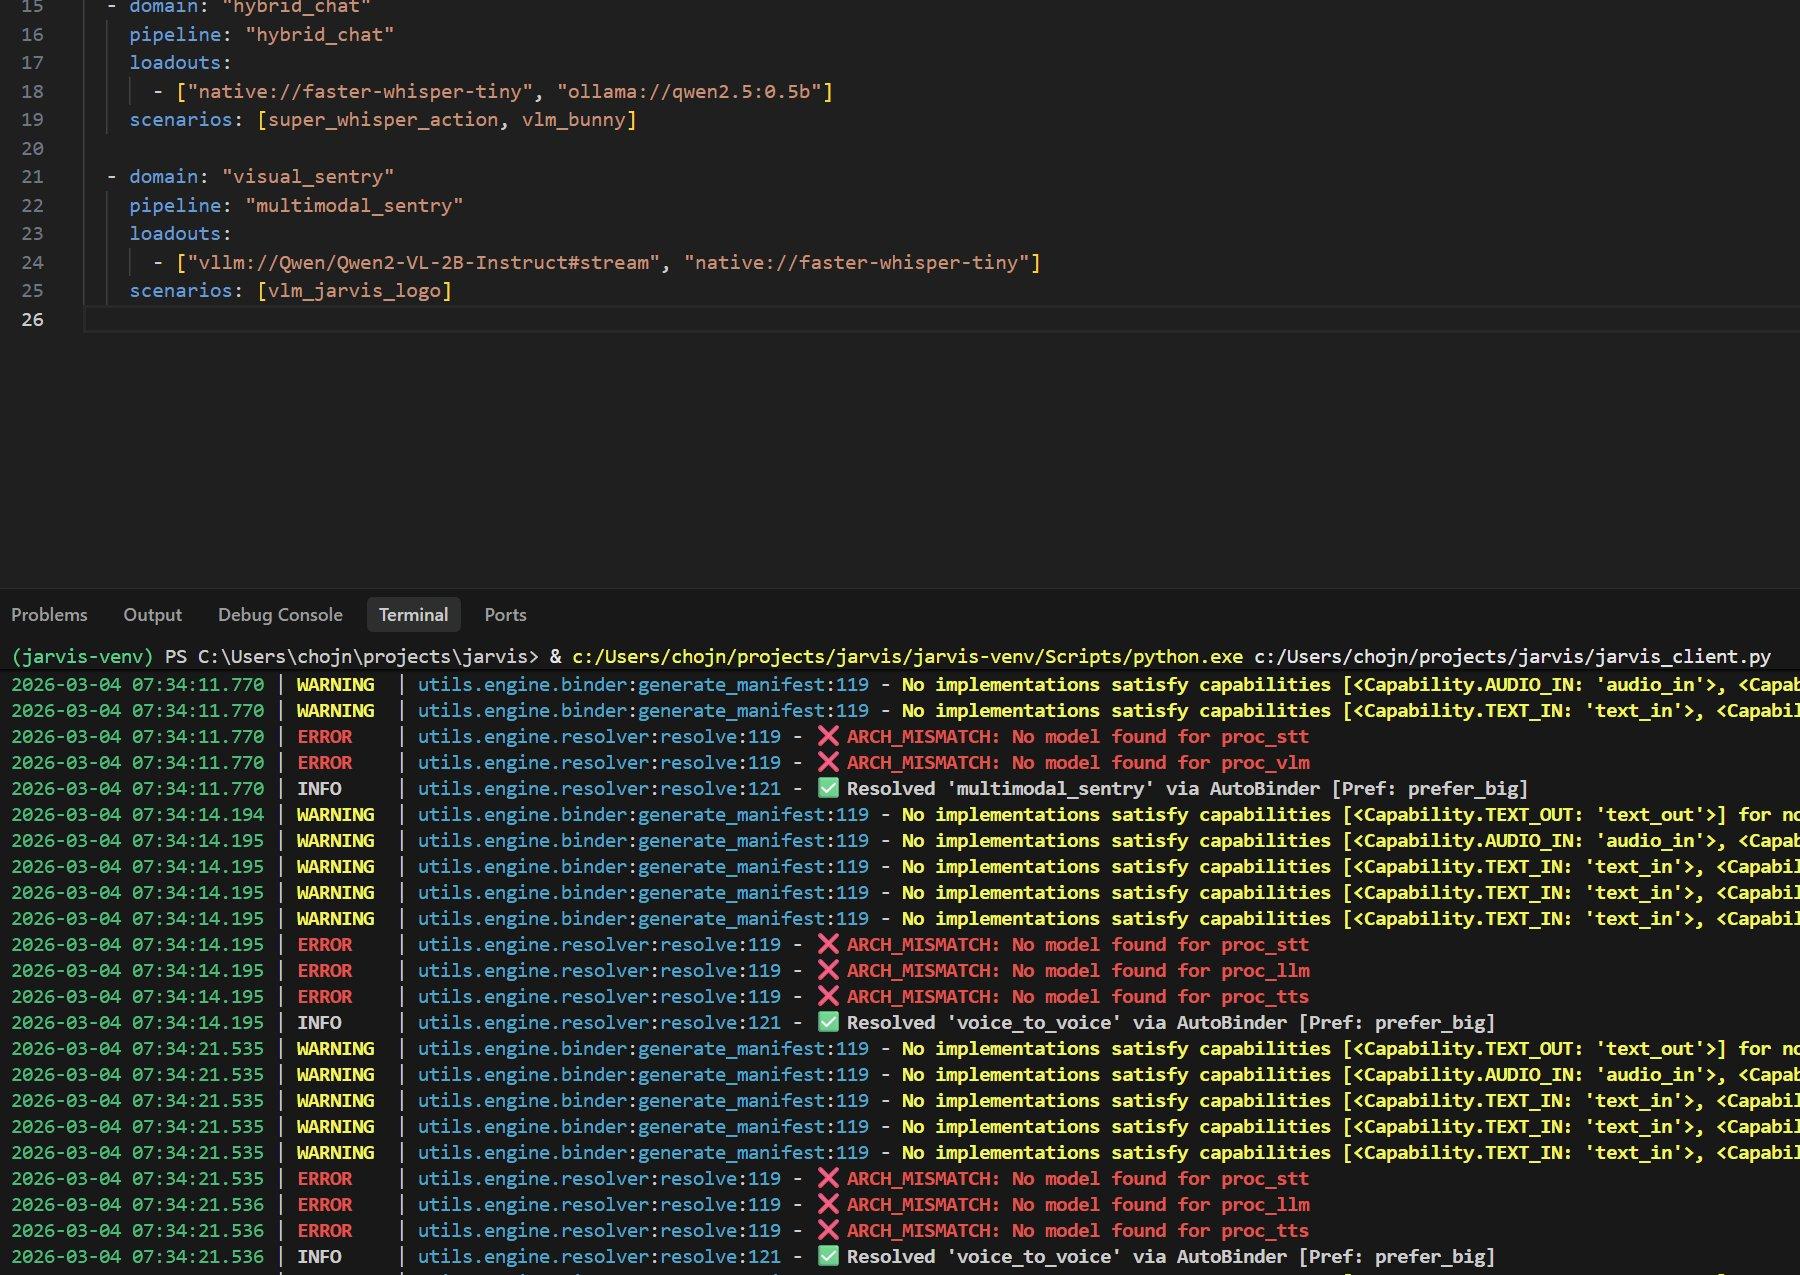
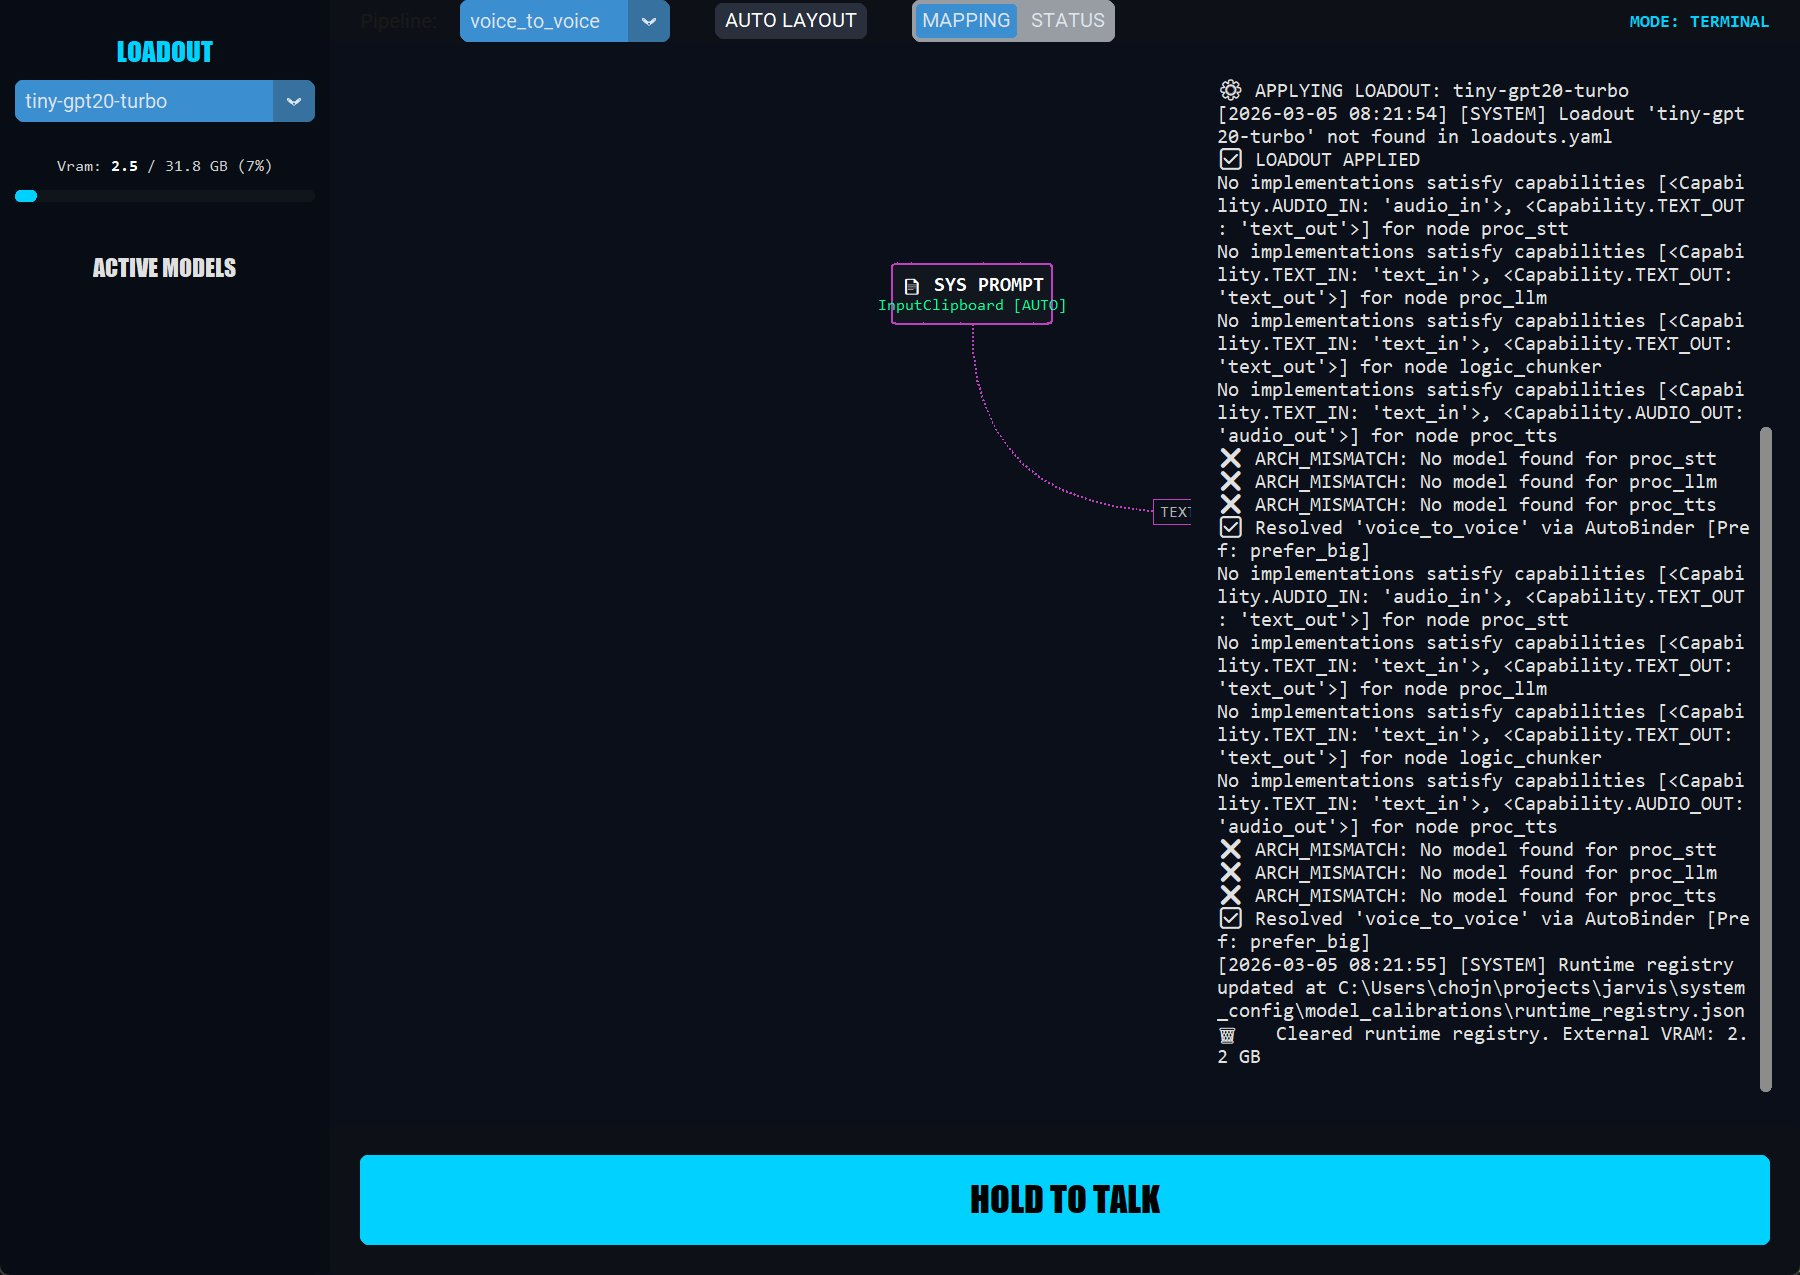
feat: simplify UI graph view with color-coded status and wider nodes
- Removed MAPPING and STATUS modes; unified into a single reactive view.
- Implemented color-coding for node titles: Green (Ready/Busy), Yellow (Startup), Red (Error), Grey (Unbound).
- Increased node width by 30% (160px -> 210px) via config.yaml.
- Simplified ui/app.py and ui/graph_widget.py by removing view_mode logic.
- Updated client testing scenarios to match the simplified UI structure.
- Refined CTkOptionMenu text extraction and health synchronization in the test runner.

diff --git a/ui/graph_widget.py b/ui/graph_widget.py
@@ -17,7 +17,6 @@ class PipelineGraphWidget(ctk.CTkFrame):
         self.dragging_node_id = None
         self.drag_offset = (0, 0)
         self.has_dragged = False
-        self.view_mode = "MAPPING"
         self.health_data = {} # port -> {status, info}
         
         self.canvas.bind("<Configure>", self.on_resize)
@@ -32,10 +31,9 @@ class PipelineGraphWidget(ctk.CTkFrame):
     def on_resize(self, event):
         self.draw_graph()
 
-    def set_graph_data(self, bound_graph, manual_positions=None, view_mode=None, health_data=None):
+    def set_graph_data(self, bound_graph, manual_positions=None, health_data=None):
         self.bound_graph = bound_graph
         if manual_positions is not None: self.manual_positions = manual_positions
-        if view_mode: self.view_mode = view_mode
         if health_data is not None: self.health_data = health_data
         self.draw_graph()
 
@@ -121,7 +119,7 @@ class PipelineGraphWidget(ctk.CTkFrame):
         return self.canvas.create_polygon(points, fill=color, outline=outline_color, width=outline_width, smooth=True)
 
     def draw_edge(self, x1, y1, x2, y2, color=None, style=None):
-        if color is None: color = self.ui_cfg['graph']['edge']['color']
+        if color is None: color = self.ui_cfg['colors']['gray']
         width = self.ui_cfg['graph']['edge']['width']
         ashape = tuple(self.ui_cfg['graph']['edge']['arrow_shape'])
         
@@ -132,7 +130,7 @@ class PipelineGraphWidget(ctk.CTkFrame):
 
     def draw_label(self, x1, y1, x2, y2, label, color=None):
         if not label: return
-        if color is None: color = self.ui_cfg['graph']['edge']['color']
+        if color is None: color = self.ui_cfg['colors']['gray']
         
         # Midpoint of the vertical flow, following the 30% elbow weight
         mid_x = (x1 + x2) / 2
@@ -238,28 +236,46 @@ class PipelineGraphWidget(ctk.CTkFrame):
             role = node.get('role', ntype)
             binding = node.get('binding')
             
-            # Color Coding Strategy
-            if ntype == 'source':
-                is_sys_prompt = any(n.get('system_prompt') == nid for n in self.bound_graph.values())
-                outline_color = self.ui_cfg['colors']['purple'] if is_sys_prompt else self.ui_cfg['colors']['accent']
-            elif ntype == 'sink':
-                outline_color = self.ui_cfg['colors']['warning']
-            elif ntype == 'processing':
-                if role == 'utility':
-                    outline_color = self.ui_cfg['colors']['gray']
-                elif not binding:
-                    outline_color = self.ui_cfg['colors']['error']
+            # COLOR CODING Logic
+            title_color = self.ui_cfg['colors']['gray'] # Default: not mapped (Grey)
+            subtext = "Unbound"
+            subtext_color = self.ui_cfg['colors']['gray']
+
+            if binding:
+                # If bound, we check health if it has a port
+                port = getattr(binding, 'config', {}).get('binding', {}).get('port') if not isinstance(binding, dict) else binding.get('config', {}).get('binding', {}).get('port')
+                if port:
+                    health = self.health_data.get(port, {"status": "OFF"})
+                    s = health['status']
+                    if s in ["ON", "BUSY"]:
+                        title_color = self.ui_cfg['colors']['success'] # Ready (Green)
+                        subtext_color = self.ui_cfg['colors']['success']
+                    elif s == "STARTUP":
+                        title_color = self.ui_cfg['colors']['warning'] # Loading (Yellow)
+                        subtext_color = self.ui_cfg['colors']['warning']
+                    else:
+                        title_color = self.ui_cfg['colors']['error'] # Error (Red)
+                        subtext_color = self.ui_cfg['colors']['error']
                 else:
-                    outline_color = self.ui_cfg['colors']['success']
-            else:
-                outline_color = self.ui_cfg['colors']['gray']
+                    # Local logic (no port) - assume Green if bound
+                    title_color = self.ui_cfg['colors']['success']
+                    subtext_color = self.ui_cfg['colors']['success']
+                
+                # Determine subtext (ID)
+                subtext = getattr(binding, 'id', 'Unknown') if not isinstance(binding, dict) else binding.get('id', 'Unknown')
+            elif ntype in ['source', 'sink']:
+                # Hardware sources/sinks are Green if the system is "Live"
+                # (Simpler for now: if pipeline is resolved, hardware is ready)
+                title_color = self.ui_cfg['colors']['success']
+                subtext = "Hardware"
+                subtext_color = self.ui_cfg['colors']['accent']
 
             outline_w = 2.5 if is_selected else 1.5
             if is_selected: bg_color = node_cfg.get('selected_bg_color', "#1A202C")
 
-            self.draw_rounded_rect(bx1, by1, node_w, node_h, r, bg_color, outline_color, outline_w)
+            self.draw_rounded_rect(bx1, by1, node_w, node_h, r, bg_color, self.ui_cfg['colors']['gray'], outline_w)
             
-            # Label Selection (favor YAML display_name, fallback to cleaned ID)
+            # Label Selection
             if 'display_name' in node:
                 display_name = node['display_name'].upper()
             else:
@@ -267,42 +283,15 @@ class PipelineGraphWidget(ctk.CTkFrame):
                 if display_name.startswith("input_"): display_name = display_name[6:]
                 if display_name.startswith("output_"): display_name = display_name[7:]
                 if display_name.startswith("proc_"): display_name = display_name[5:]
-                
-                # Internal common abbreviations
                 abbrevs = {"conversation_memory": "conv mem", "system_prompt": "sys prompt"}
                 display_name = abbrevs.get(display_name, display_name).replace("_", " ").upper()
             
             # Text Content
             f_pri, f_sec = tuple(self.ui_cfg['graph']['font']['primary']), tuple(self.ui_cfg['graph']['font']['secondary'])
-            self.canvas.create_text(cx, cy - 10, text=display_name, fill="#FFFFFF", font=f_pri)
             
-            if self.view_mode == "STATUS":
-                # STATUS MODE: Show functional state
-                status_text = ""
-                status_color = self.ui_cfg['colors']['gray']
-                
-                if binding:
-                    port = binding.get('port')
-                    health = self.health_data.get(port, {"status": "OFF"})
-                    s = health['status']
-                    if s == "ON": status_text = "READY"; status_color = self.ui_cfg['colors']['success']
-                    elif s == "BUSY": status_text = "PROCESSING"; status_color = self.ui_cfg['colors']['accent']
-                    elif s == "STARTUP": status_text = "STARTUP"; status_color = self.ui_cfg['colors']['warning']
-                    else: status_text = "ERROR"; status_color = self.ui_cfg['colors']['error']
-                elif ntype == 'processing' and role != 'utility':
-                    status_text = "UNBOUND"; status_color = self.ui_cfg['colors']['error']
-                elif ntype in ['source', 'sink']:
-                    status_text = "READY"; status_color = self.ui_cfg['colors']['success']
-                
-                if status_text:
-                    self.canvas.create_text(cx, cy + 10, text=status_text, fill=status_color, font=f_sec if status_text != "UNBOUND" else f_pri)
-            else:
-                # MAPPING MODE: Show model IDs (Original behavior)
-                if binding:
-                    subtext = getattr(binding, 'id', 'Unknown') if not isinstance(binding, dict) else binding.get('id', 'Unknown')
-                    # Check if it was an auto-binding
-                    is_auto = getattr(binding, 'is_auto', True) if not isinstance(binding, dict) else binding.get('is_auto', True)
-                    display_sub = f"{subtext[:22]} [AUTO]" if is_auto else subtext[:22]
-                    self.canvas.create_text(cx, cy + 10, text=display_sub, fill=self.ui_cfg['colors']['success'], font=f_sec)
-                elif ntype == 'processing' and role != 'utility':
-                    self.canvas.create_text(cx, cy + 10, text="[UNBOUND]", fill=self.ui_cfg['colors']['error'], font=f_pri)
+            # Draw Title (Color coded)
+            self.canvas.create_text(cx, cy - 10, text=display_name, fill=title_color, font=f_pri)
+            
+            # Draw Subtext (Model ID or Status)
+            display_sub = subtext[:28] if len(subtext) > 28 else subtext
+            self.canvas.create_text(cx, cy + 10, text=display_sub, fill=subtext_color, font=f_sec)

diff --git a/ui/app.py b/ui/app.py
@@ -84,11 +84,6 @@ class JarvisApp(ctk.CTk):
         self.auto_btn = ctk.CTkButton(self.header, text="AUTO LAYOUT", width=100, height=24, fg_color=self.colors.get('gray'), text_color="white", command=self.on_auto_layout)
         self.auto_btn.pack(side="left", padx=20)
 
-        # View Mode Selector
-        self.view_mode_var = ctk.StringVar(value="MAPPING")
-        self.view_mode_btn = ctk.CTkSegmentedButton(self.header, values=["MAPPING", "STATUS"], variable=self.view_mode_var, command=self.on_view_mode_change)
-        self.view_mode_btn.pack(side="left", padx=10)
-
         # Mode Indicator
         self.mode_label = ctk.CTkLabel(self.header, text="MODE: TERMINAL", font=("Consolas", 12, "bold"), text_color=self.colors.get('accent'))
         self.mode_label.pack(side="right", padx=20)
@@ -132,9 +127,6 @@ class JarvisApp(ctk.CTk):
     def on_auto_layout(self):
         self.graph_widget.apply_auto_layout()
 
-    def on_view_mode_change(self, val):
-        self.update_graph_view()
-
     def on_loadout_change(self, val):
         if val != "NONE" and val == self.controller.current_loadout: return
         self.transition_lock = True; self.selected_mid = None; self.switch_to_terminal()
@@ -146,7 +138,7 @@ class JarvisApp(ctk.CTk):
         except: vram_snap = None
         if val != "NONE":
             try:
-                loadouts_path = os.path.join(script_dir, "system_config", "loadouts.yaml")
+                loadouts_path = os.path.join(self.controller.project_root, "system_config", "loadouts.yaml")
                 with open(loadouts_path, "r") as f: all_loadouts = yaml.safe_load(f)
                 target = all_loadouts.get(val)
                 if target:
@@ -160,10 +152,13 @@ class JarvisApp(ctk.CTk):
                             mock_port = -1 - i
                             instant_models.append({"id": m_data['id'], "engine": m_data['engine'], "params": m_data['params'], "port": mock_port, "capabilities": self.controller.resolver.get_model_capabilities(m_data['id'], m_data['engine'])})
                             instant_health[mock_port] = {"status": "STARTUP", "info": "Initializing..."}
+                    
+                    self.controller.health_state = instant_health
                     self.update_health_ui(instant_health, {"runnable": False, "errors": ["Loading..."]}, active_models=instant_models, vram=vram_snap)
             except Exception as e: logger.error(f"Instant UI refresh failed: {e}")
         else:
             self.transition_lock = False
+            self.controller.health_state = {}
             self.update_health_ui({}, {"runnable": False, "errors": ["Offline"]}, active_models=[], vram=vram_snap)
         def execute_backend_changes():
             self.controller.trigger_loadout_change(val)
@@ -171,18 +166,17 @@ class JarvisApp(ctk.CTk):
         self.after(100, execute_backend_changes)
 
     def update_graph_view(self):
-        mode = self.view_mode_var.get()
         health = self.controller.health_state
         try:
             bound_graph = self.controller.resolver.resolve(self.controller.current_pipeline, self.controller.current_strategy)
             manual_pos = self.controller.node_positions.get(self.controller.current_pipeline)
-            self.graph_widget.set_graph_data(bound_graph, manual_positions=manual_pos, view_mode=mode, health_data=health)
+            self.graph_widget.set_graph_data(bound_graph, manual_positions=manual_pos, health_data=health)
         except:
             try:
                 raw_pipeline = self.controller.resolver.load_yaml(self.controller.current_pipeline)
                 unbound_graph = {n['id']: n.copy() for n in raw_pipeline.get('nodes', [])}
                 manual_pos = self.controller.node_positions.get(self.controller.current_pipeline)
-                self.graph_widget.set_graph_data(unbound_graph, manual_positions=manual_pos, view_mode=mode, health_data=health)
+                self.graph_widget.set_graph_data(unbound_graph, manual_positions=manual_pos, health_data=health)
             except: self.graph_widget.set_graph_data(None)
 
     def switch_to_terminal(self):
@@ -271,9 +265,8 @@ class JarvisApp(ctk.CTk):
             
         self._update_selection_ui()
         
-        # Refresh Graph if in Status Mode
-        if self.view_mode_var.get() == "STATUS":
-            self.update_graph_view()
+        # Refresh Graph with new health data
+        self.update_graph_view()
 
         # Loadout Opt color coding
         if self.controller.current_loadout == "NONE": self.loadout_opt.configure(fg_color=self.colors.get('gray'))

diff --git a/tests/client_runner.py b/tests/client_runner.py
@@ -40,6 +40,15 @@ class StatusDumper:
                 text = widget.get("1.0", "end-1c").strip()
             elif hasattr(widget, "cget"): # Label / Button / Frame
                 text = str(widget.cget("text"))
+            
+            # Expanded fallback for CustomTkinter widgets with variables
+            if not text:
+                for var_attr in ["_variable", "variable", "_var"]:
+                    if hasattr(widget, var_attr):
+                        var = getattr(widget, var_attr)
+                        if hasattr(var, "get"):
+                            text = str(var.get())
+                            break
         except: pass
         
         latency = (time.perf_counter() - start_t) * 1000
@@ -64,8 +73,7 @@ class StatusDumper:
             "pipe_opt": self.app.pipe_opt,
             "record_btn": self.app.record_btn,
             "terminal": self.app.terminal,
-            "mode_label": self.app.mode_label,
-            "view_mode_btn": self.app.view_mode_btn
+            "mode_label": self.app.mode_label
         }
         return mapping.get(path)
 
@@ -116,11 +124,6 @@ class AutomationController:
             logger.info(f"🔽 Selecting Pipeline: '{value}'")
             self.app.pipe_var.set(value)
             self.app.on_config_change(value)
-
-    def set_view_mode(self, mode: str):
-        logger.info(f"🖥  Setting View Mode: '{mode}'")
-        self.app.view_mode_var.set(mode)
-        self.app.on_view_mode_change(mode)
 
     def _resolve_widget(self, path: str) -> Optional[Any]:
         return StatusDumper(self.app)._resolve_widget(path)
@@ -185,8 +188,6 @@ class ClientTestRunner:
             self.automation.select_dropdown(target, value)
         elif action == "click_element":
             self.automation.click(target)
-        elif action == "set_view_mode":
-            self.automation.set_view_mode(value)
         elif action == "take_screenshot":
             self.visual.capture_window(step.get('file', 'test_snap.jpg'))
         elif action == "assert_ui_text":
@@ -195,7 +196,8 @@ class ClientTestRunner:
             if contains in actual:
                 logger.info(f"✅ Assertion Passed: '{target}' contains '{contains}'")
             else:
-                logger.error(f"❌ Assertion Failed: '{target}' (Actual: '{actual[:50]}...') does not contain '{contains}'")
+                display_actual = f"'{actual}'" if actual else "EMPTY"
+                logger.error(f"❌ Assertion Failed: '{target}' (Actual: {display_actual}) does not contain '{contains}'")
         elif action == "assert_system_state":
             snap = self.dumper.get_system_snapshot()
             cond = step.get('condition')
